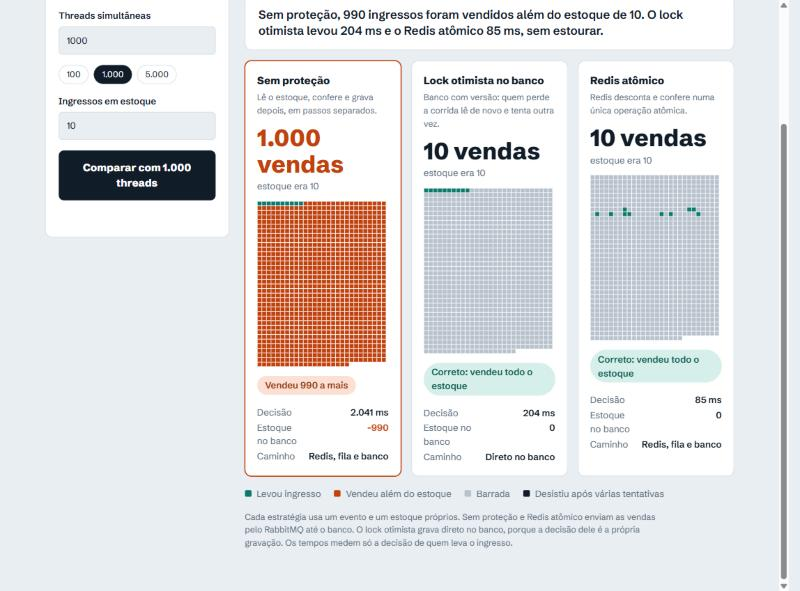
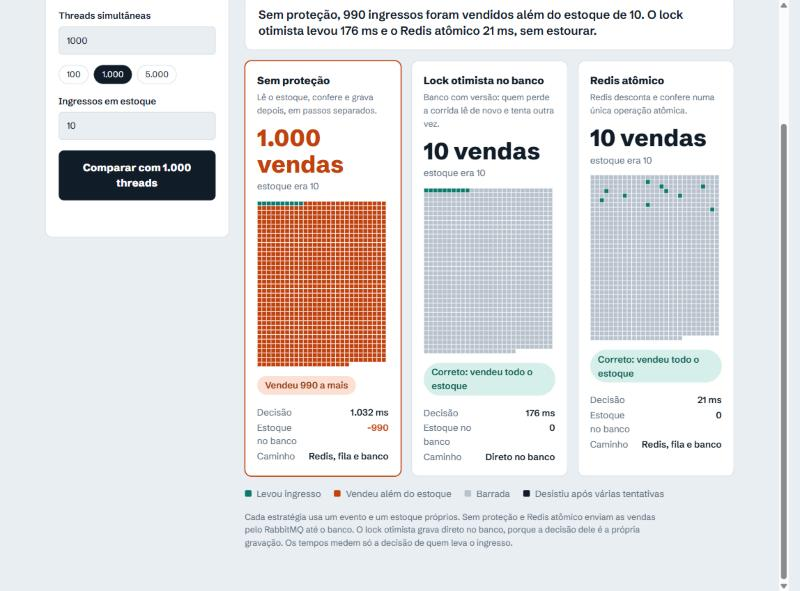
feat: troca H2 por PostgreSQL no compose e no CI
O driver do Postgres entra no pom, o driverClassName fixo do H2 sai da
configuracao e o banco sobe com healthcheck, publicado na porta 5433 para
nao colidir com um Postgres local. O CI passa a rodar a suite contra Postgres.
Atualiza README e print do comparativo com as medicoes no novo banco.

diff --git a/README.md b/README.md
@@ -4,6 +4,7 @@
 ![Spring Boot](https://img.shields.io/badge/Spring_Boot-3.2+-brightgreen?style=for-the-badge&logo=spring)
 ![Redis](https://img.shields.io/badge/Redis-red?style=for-the-badge&logo=redis)
 ![RabbitMQ](https://img.shields.io/badge/RabbitMQ-FF6600?style=for-the-badge&logo=rabbitmq)
+![PostgreSQL](https://img.shields.io/badge/PostgreSQL-4169E1?style=for-the-badge&logo=postgresql&logoColor=white)
 ![Docker](https://img.shields.io/badge/Docker-blue?style=for-the-badge&logo=docker)
 [![CI](https://github.com/Jmello01/ticketflow/actions/workflows/ci.yml/badge.svg)](https://github.com/Jmello01/ticketflow/actions/workflows/ci.yml)
 
@@ -33,7 +34,7 @@ flowchart LR
     R -->|estoque > 0| Q[[RabbitMQ]]
     R -.->|esgotado| X[Rejeitado]
     Q --> C[Consumer]
-    C -->|retry otimista| D[(Banco H2)]
+    C -->|retry otimista| D[(PostgreSQL)]
 ```
 
 ##  Como Executar o Laboratório
@@ -65,8 +66,10 @@ No dashboard, o modo **Comparar estratégias** roda a mesma disputa (1.000 threa
 | Estratégia | Como decide | Resultado medido (1.000 threads, 10 ingressos) |
 |---|---|---|
 | Sem proteção | Lê o estoque no Redis, confere e grava depois (`GET` + `SET`) | 1.000 vendas, estoque no banco em -990 |
-| Lock otimista | Banco com `@Version`, relendo em caso de conflito | 10 vendas, cerca de 200 ms |
-| Redis atômico | `DECR` em uma operação só | 10 vendas, cerca de 70 a 85 ms |
+| Lock otimista | Banco com `@Version`, relendo em caso de conflito | 10 vendas, 176 a 560 ms |
+| Redis atômico | `DECR` em uma operação só | 10 vendas, 21 a 51 ms |
+
+Medido em PostgreSQL 16 (Docker), em quatro rodadas seguidas. A primeira rodada do lock otimista é a mais lenta, por causa do aquecimento da aplicação.
 
 Sem proteção e Redis atômico enviam as vendas pelo RabbitMQ até o banco. O lock otimista grava direto no banco, porque a decisão dele é a própria gravação.
 
@@ -83,6 +86,17 @@ docker-compose up -d ticket-redis ticket-rabbitmq
 ```
 
 Se o container `ticket-app` estiver rodando, pare-o antes (`docker-compose stop ticket-app`). Ele consome da mesma fila `tickets.queue` com um banco próprio, e os testes que esperam a fila esvaziar falham.
+
+Por padrão os testes usam um H2 em memória. Para rodá-los contra o PostgreSQL do compose (publicado na porta **5433**, para não colidir com um Postgres local na 5432):
+
+```bash
+docker-compose up -d ticket-postgres ticket-redis ticket-rabbitmq
+SPRING_DATASOURCE_URL=jdbc:postgresql://localhost:5433/ticketdb \
+SPRING_DATASOURCE_USERNAME=ticketflow SPRING_DATASOURCE_PASSWORD=ticketflow \
+./mvnw test
+```
+
+O CI do GitHub roda a suíte contra PostgreSQL.
 
 ## Realizando o Teste de Estresse
 O sistema possui endpoints específicos para controle de estado e simulação.
